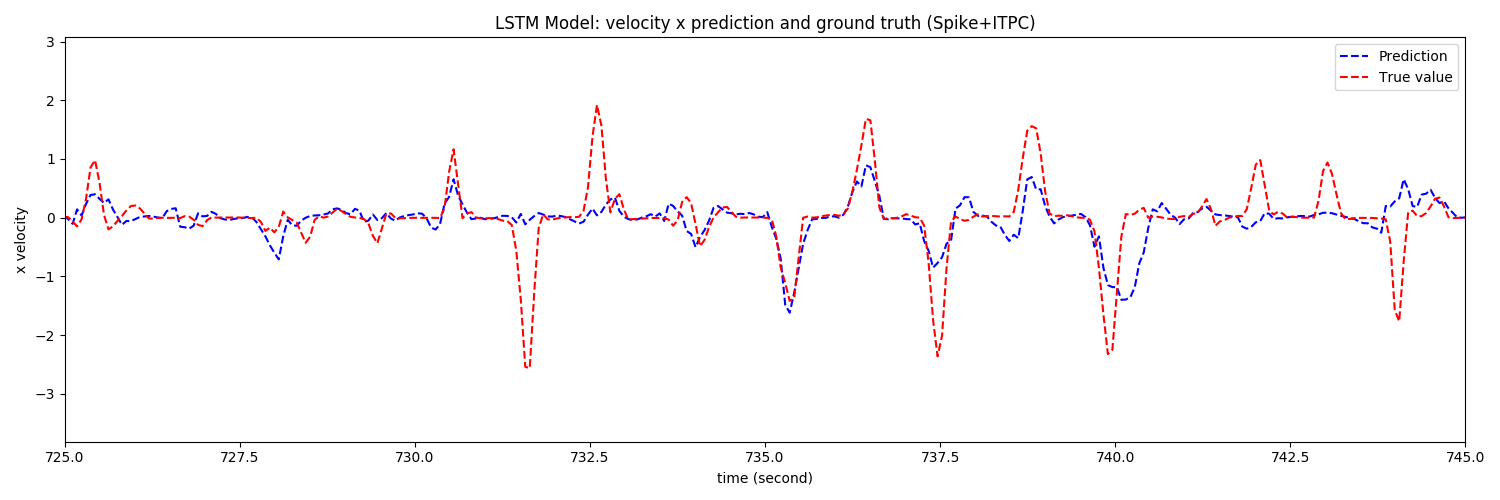
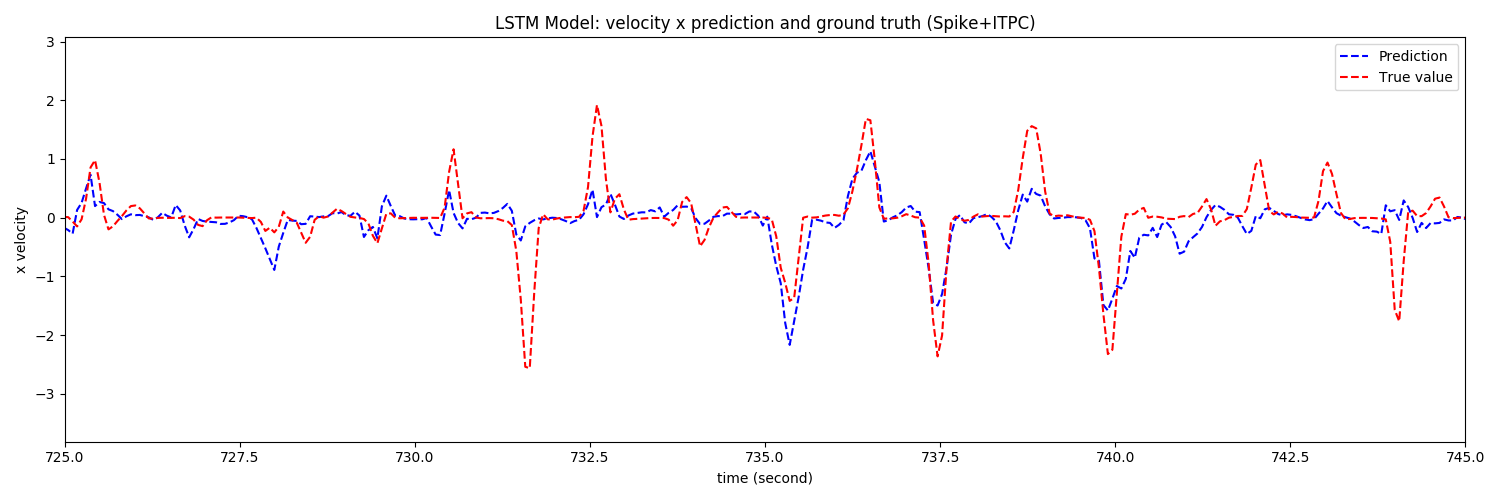
only avg. angle

diff --git a/Python_code/Pytorch/ITPC/ITPC_LSTM.py b/Python_code/Pytorch/ITPC/ITPC_LSTM.py
@@ -336,12 +336,12 @@ for k in range(new_training_x.size(0)):
     for i in range(96):
         # pass
         # new_training_x[k,i]=new_training_x[k,i]*new_training_x[k,-1]*new_training_x[k,-2]
-        new_training_x[k,i]=new_training_x[k,i]*new_training_x[k,-2]*abs(new_training_x[k,-1])
+        new_training_x[k,i]=new_training_x[k,i]*abs(new_training_x[k,-1])
 for k in range(new_testing_x.size(0)):
     for i in range(96):
         # pass
         # new_testing_x[k,i]=new_testing_x[k,i]*new_testing_x[k,-1]*new_testing_x[k,-2]
-        new_testing_x[k,i]=new_testing_x[k,i]*new_testing_x[k,-2]*abs(new_testing_x[k,-1])
+        new_testing_x[k,i]=new_testing_x[k,i]*abs(new_testing_x[k,-1])
 
 new_training_x=new_training_x[:,:96]
 new_testing_x=new_testing_x[:,:96]
@@ -351,7 +351,7 @@ new_testing_x=new_testing_x[:,:96]
 batch_size = 16
 learning_rate=1e-3
 n_iters = 50000
-max_epoch=500
+max_epoch=250
 
 # LSTM
 hidden_dim=100
